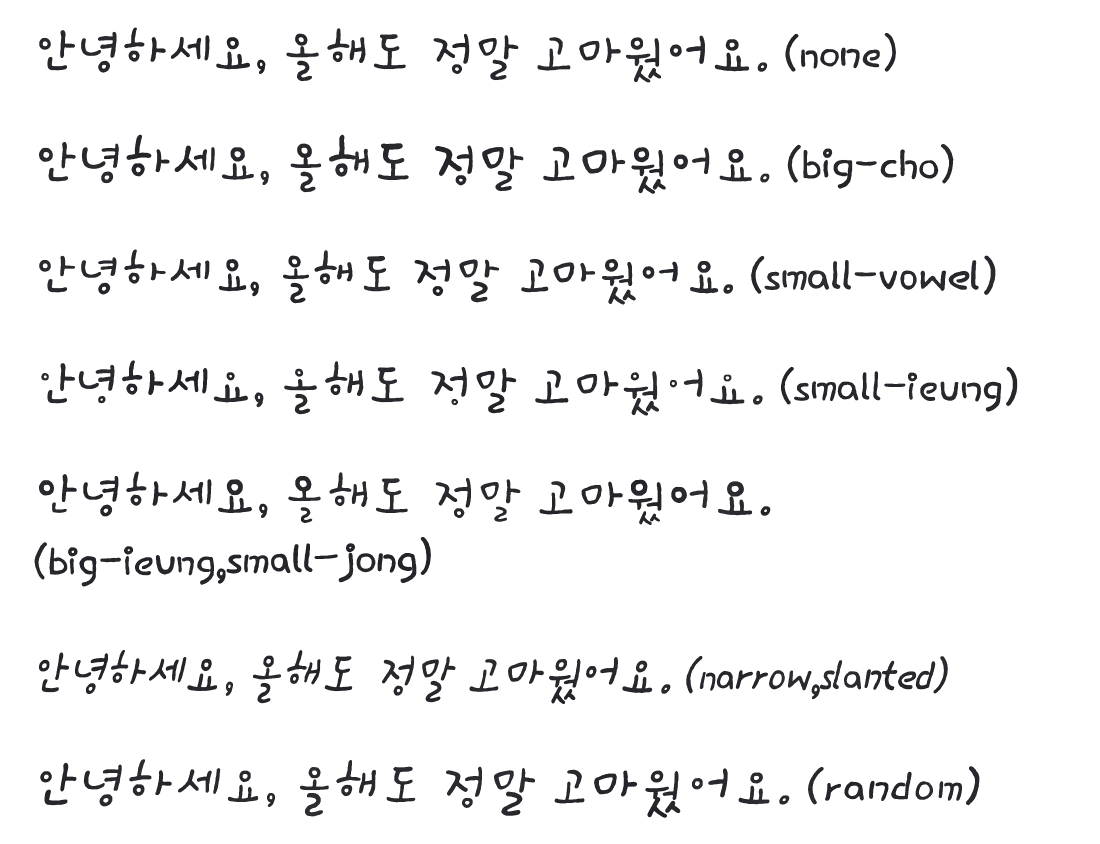
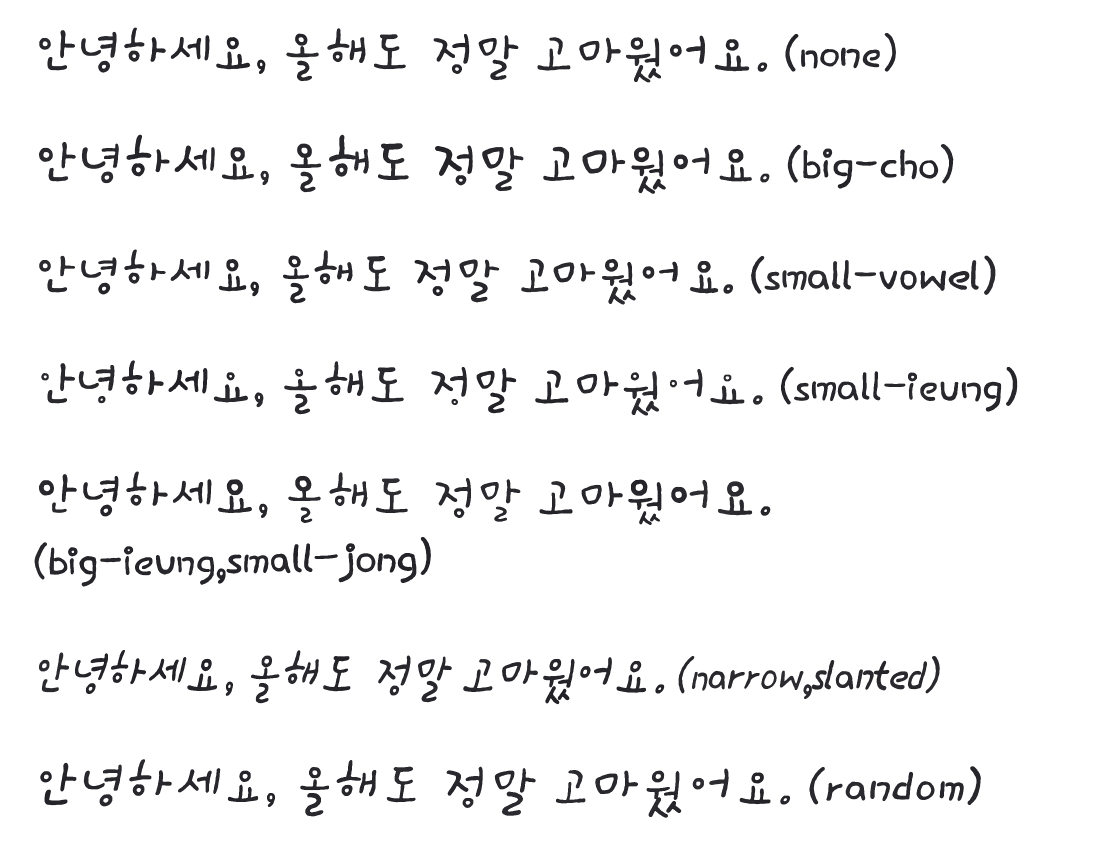
띄어쓰기 폭도 글자 폭 버릇을 따르게 함
Claude-Session: https://claude.ai/code/session_01LcjDKpx5NtiNGwhCmDL3XP

diff --git a/sonhangul/render.py b/sonhangul/render.py
@@ -150,7 +150,8 @@ def layout_text(
     line_h = style.line_height * size
 
     space = chain.lookup(" ")
-    space_adv = (space.advance if space else 0.3) * size
+    # 띄어쓰기 폭도 글자 폭 버릇을 따른다(길쭉하게 쓰는 사람은 띄어쓰기도 좁다).
+    space_adv = (space.advance if space else 0.3) * size * style.habits.width
 
     def advance_of(s: str) -> float:
         total = 0.0
